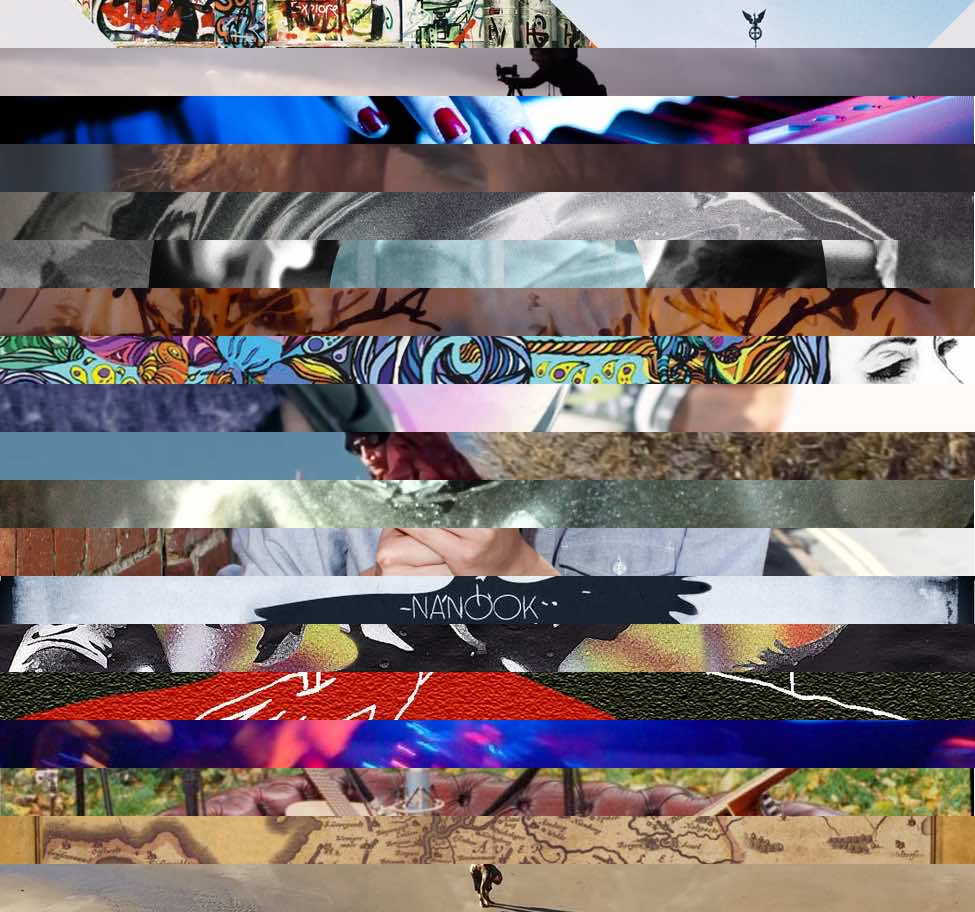
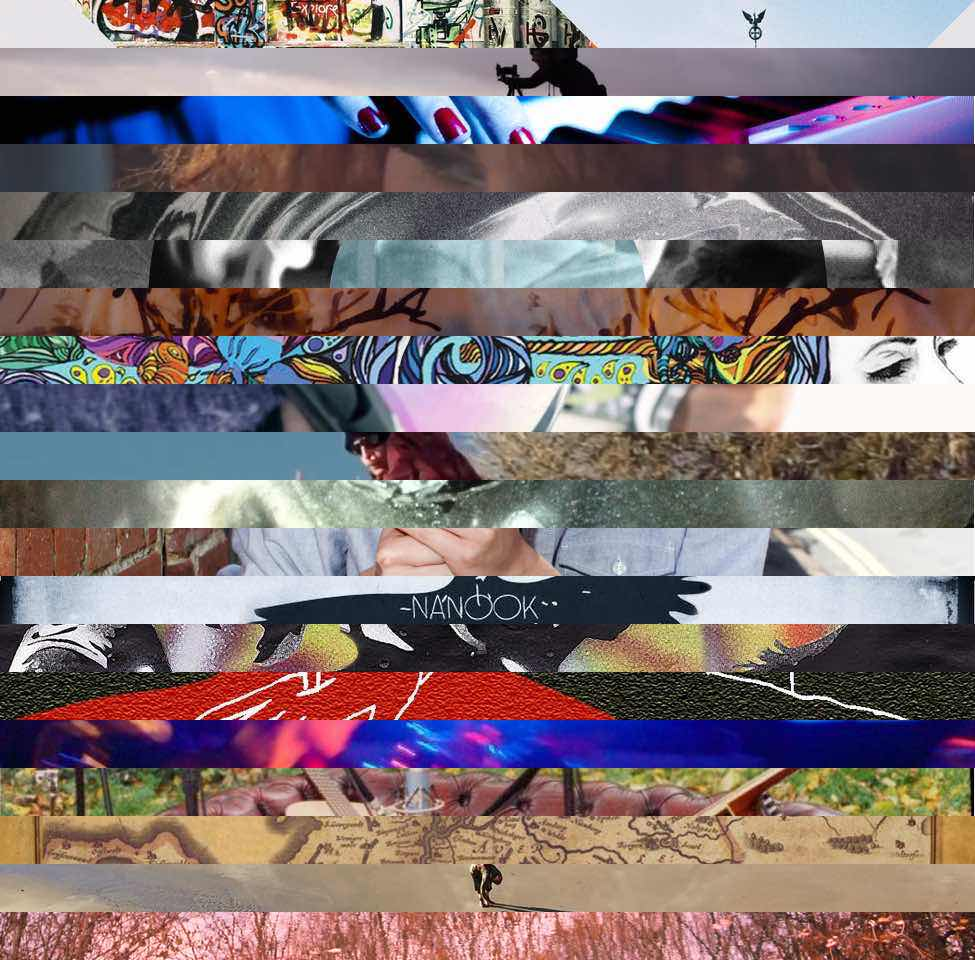
add `calum pratt - this time will be different`

diff --git a/src/page-audio-engineer/js/portfolio-items-config.js b/src/page-audio-engineer/js/portfolio-items-config.js
@@ -20,6 +20,17 @@ class ContentFactory {
   static get CONFIGS() {
     return [
       {
+        id: "CPTTWBD",
+        artist: "Calum Pratt",
+        album: "This Time Will Be Different",
+        mediaId: 3027591022,
+        embedType: ContentFactory.TYPES.BANDCAMP,
+        embedLink:
+          "https://calumpratt.bandcamp.com/album/this-time-will-be-different",
+        description:
+          "The second full length work from British singer-songwriter, long-time collaborator, confidant and proper mate Calum Pratt. Our proudest moment to date.",
+      },
+      {
         id: "SHSR",
         artist: "Sam Hanlan",
         album: "Sharp Relief",

diff --git a/src/page-audio-engineer/audio-engineer.html b/src/page-audio-engineer/audio-engineer.html
@@ -23,6 +23,12 @@
       <aside id="sidebar">
         <section id="sidebar-background"></section>
         <section id="portfolio-list">
+          <div id="portfolio-item-CPTTWBD" class="portfolio-item">
+            <span class="portfolio-title"
+              >Calum Pratt - <br/><em>This Time Will Be Different</em></span
+            >
+            <span class="portfolio-artwork artwork-CPTTWBD"></span>
+          </div>
           <div id="portfolio-item-SHSR" class="portfolio-item">
             <span class="portfolio-title"
               >Sam Hanlan - <em>Sharp Relief</em></span

diff --git a/src/page-audio-engineer/audio-engineer.scss b/src/page-audio-engineer/audio-engineer.scss
@@ -327,6 +327,9 @@ nav {
 .artwork-SHSR::after {
   background-position-y: -864px;
 }
+.artwork-CPTTWBD::after {
+  background-position-y: -912px;
+}
 
 #content-display {
   order: 3;
